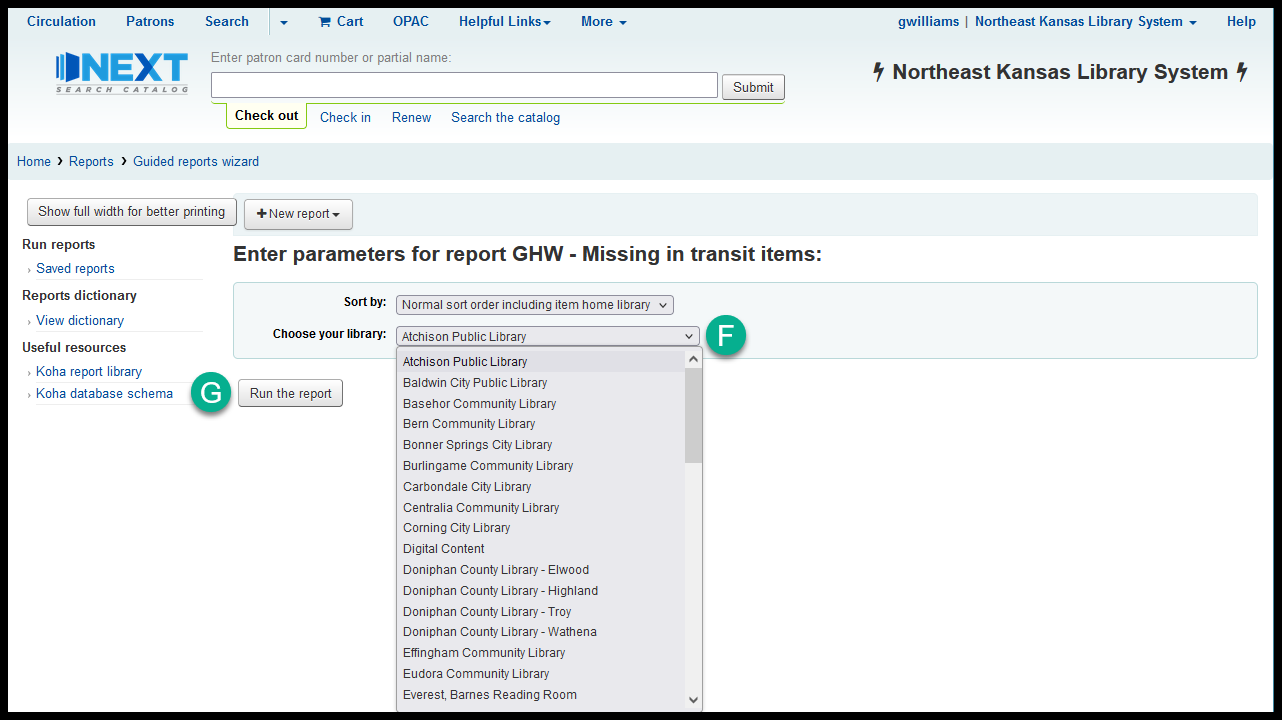
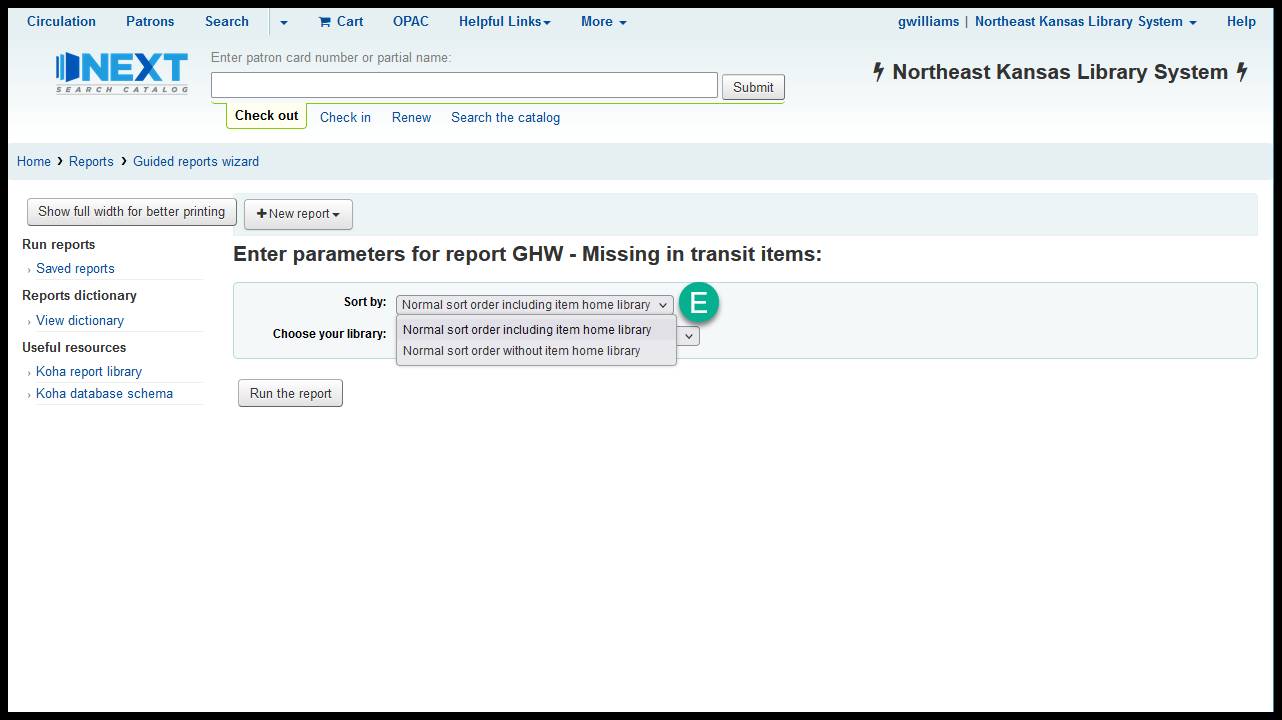
Update report 3658 - add index for reports

Changed region(s): [[0.312, 0.3972, 0.5928, 0.9778], [0.1248, 0.5194, 0.1872, 0.5806]]

diff --git a/source/pages/conf.py b/source/pages/conf.py
@@ -1,0 +1,182 @@
+# Configuration file for the Sphinx documentation builder.
+#
+# This file only contains a selection of the most common options. For a full
+# list see the documentation:
+# https://www.sphinx-doc.org/en/master/usage/configuration.html
+
+# -- Path setup --------------------------------------------------------------
+
+# If extensions (or modules to document with autodoc) are in another directory,
+# add these directories to sys.path here. If the directory is relative to the
+# documentation root, use os.path.abspath to make it absolute, like shown here.
+#
+# import os
+# import sys
+# sys.path.insert(0, os.path.abspath('.'))
+
+
+# -- Project information -----------------------------------------------------
+
+project = 'Next Steps'
+copyright = '2022, Northeast Kansas Library System'
+author = 'Northeast Kansas Library System'
+
+# The full version, including alpha/beta/rc tags
+release = '1.0'
+
+
+# -- General configuration ---------------------------------------------------
+
+# Add any Sphinx extension module names here, as strings. They can be
+# extensions coming with Sphinx (named 'sphinx.ext.*') or your custom
+# ones.
+extensions = [
+    'sphinx.ext.githubpages',
+    'sphinx.ext.autodoc',
+    'sphinx.ext.doctest',
+    'sphinx.ext.intersphinx',
+    'sphinx.ext.coverage',
+    'sphinx.ext.autosectionlabel',
+    'sphinx.ext.todo'
+]
+
+# Display todos by setting to True
+todo_include_todos = 'True'
+
+# Add any paths that contain templates here, relative to this directory.
+templates_path = ['_templates']
+
+# The suffix(es) of source filenames.
+# You can specify multiple suffix as a list of string:
+#
+# source_suffix = ['.rst', '.md']
+source_suffix = '.rst'
+
+# The master toctree document.
+master_doc = 'index'
+
+# The language for content autogenerated by Sphinx. Refer to documentation
+# for a list of supported languages.
+#
+# This is also used if you do content translation via gettext catalogs.
+# Usually you set "language" from the command line for these cases.
+language = 'en'
+
+# Add any paths that contain templates here, relative to this directory.
+templates_path = ['_templates']
+
+# List of patterns, relative to source directory, that match files and
+# directories to ignore when looking for source files.
+# This pattern also affects html_static_path and html_extra_path.
+exclude_patterns = []
+
+# The name of the Pygments (syntax highlighting) style to use.
+pygments_style = 'sphinx'
+
+
+# -- Options for HTML output -------------------------------------------------
+
+# The theme to use for HTML and HTML Help pages.  See the documentation for
+# a list of builtin themes.
+#
+
+
+# html_theme = 'classic'
+
+html_theme = "sphinx_rtd_theme"
+
+html_logo = 'next.steps.logo.dark.1.1.png'
+
+
+# Add any paths that contain custom static files (such as style sheets) here,
+# relative to this directory. They are copied after the builtin static files,
+# so a file named "default.css" will overwrite the builtin "default.css".
+html_static_path = ['_static']
+
+html_context = {
+    'css_files': [
+        '_static/override.css',  # overrides for wide tables and colors in RTD theme
+        ],
+    }
+
+# -- Options for LaTeX output ------------------------------------------------
+
+latex_elements = {
+    # The paper size ('letterpaper' or 'a4paper').
+    #
+    # 'papersize': 'letterpaper',
+
+    # The font size ('10pt', '11pt' or '12pt').
+    #
+    # 'pointsize': '10pt',
+
+    # Additional stuff for the LaTeX preamble.
+    #
+    # 'preamble': '',
+
+    # Latex figure (float) alignment
+    #
+    # 'figure_align': 'htbp',
+}
+
+# Grouping the document tree into LaTeX files. List of tuples
+# (source start file, target name, title,
+#  author, documentclass [howto, manual, or own class]).
+latex_documents = [
+    (master_doc, 'NextSteps.tex', 'Next Search Catalog',
+     'NEKLS Staff', 'manual'),
+]
+
+# -- Options for manual page output ------------------------------------------
+
+# One entry per manual page. List of tuples
+# (source start file, name, description, authors, manual section).
+man_pages = [
+    (master_doc, 'nextsearchcatalog', 'Next Search Catalog',
+     [author], 1)
+]
+
+
+# -- Options for Texinfo output ----------------------------------------------
+
+# Grouping the document tree into Texinfo files. List of tuples
+# (source start file, target name, title, author,
+#  dir menu entry, description, category)
+texinfo_documents = [
+    (master_doc, 'NextSearchCatalog', 'Next Search Catalog Staff',
+     author, 'NextSearchCatalog'),
+]
+
+
+# -- Options for Epub output -------------------------------------------------
+
+# Bibliographic Dublin Core info.
+epub_title = project
+epub_author = author
+epub_publisher = author
+epub_copyright = copyright
+
+# The unique identifier of the text. This can be a ISBN number
+# or the project homepage.
+#
+# epub_identifier = ''
+
+# A unique identification for the text.
+#
+# epub_uid = ''
+
+# A list of files that should not be packed into the epub file.
+epub_exclude_files = ['search.html']
+
+
+# -- Extension configuration -------------------------------------------------
+
+from sphinx.writers.html import HTMLTranslator
+class PatchedHTMLTranslator(HTMLTranslator):
+    def visit_reference(self, node):
+        if node.get('newtab') or not (node.get('target') or node.get('internal') or 'refuri' not in node):
+            node['target'] = '_blank'
+        super().visit_reference(node)
+
+def setup(app):
+    app.set_translator('html', PatchedHTMLTranslator)

diff --git a/source/pages/reports/3658.rst b/source/pages/reports/3658.rst
@@ -15,16 +15,27 @@ This report includes a "mailto:" button.  In other words, if you click on the "S
 
 To run this report:
 
-|r3658.0010.png|
+Follow the normal steps for finding the report
+----------------------------------------------
 
-|r3658.0020.png|
-
-|r3658.0030.png|
-
-|r3658.0040.png|
+You can sort this report by call number first or by item home library first - the default is by item home library first
+-----------------------------------------------------------------------------------------------------------------------
 
 |r3658.0050.png|
 
+You must choose a library to run this report - after you've chosen a library, click "Run the report"
+----------------------------------------------------------------------------------------------------
+
 |r3658.0060.png|
 
+Click on "Send e-mail" to send the item data to the owning library, sending library, and receiving library
+----------------------------------------------------------------------------------------------------------
+
+This feature will only work if you have a default e-mail program set up on the computer you're using.
+
 |r3658.0070.png|
+
+This is a sample of the e-mail that will be sent
+------------------------------------------------
+
+|r3658.0080.png|

diff --git a/source/include.rst b/source/include.rst
@@ -179,25 +179,16 @@
 
 .. pages/reports/3658
 
-.. |r3658.0010.png| image:: /images/pages/reports/3658/r3658.0010.png
-    :alt: Go to reports
-
-.. |r3658.0020.png| image:: /images/pages/reports/3658/r3658.0020.png
-    :alt: Click on "Saved reports"
-
-.. |r3658.0030.png| image:: /images/pages/reports/3658/r3658.0030.png
-    :alt: Search for report 3658
-
-.. |r3658.0040.png| image:: /images/pages/reports/3658/r3658.0040.png
+.. |r3658.0050.png| image:: /images/pages/reports/3658/r3658.0050.png
     :alt: Choose the type of sorting
 
-.. |r3658.0050.png| image:: /images/pages/reports/3658/r3658.0050.png
+.. |r3658.0060.png| image:: /images/pages/reports/3658/r3658.0060.png
     :alt: Choose your library
 
-.. |r3658.0060.png| image:: /images/pages/reports/3658/r3658.0060.png
+.. |r3658.0070.png| image:: /images/pages/reports/3658/r3658.0070.png
     :alt: Trigger an e-mail by clicking on the "Send e-mail" button
 
-.. |r3658.0070.png| image:: /images/pages/reports/3658/r3658.0070.png
+.. |r3658.0080.png| image:: /images/pages/reports/3658/r3658.0080.png
     :alt: If you have a default e-mail client installed, it should pre-populate an e-mail asking for a shelf-check
 
 

diff --git a/source/pages/reports.rst b/source/pages/reports.rst
@@ -1,0 +1,11 @@
+.. include:: /include.rst
+
+*******
+Reports
+*******
+
+.. toctree::
+   :maxdepth: 1
+   :glob:
+
+   /pages/reports/*
